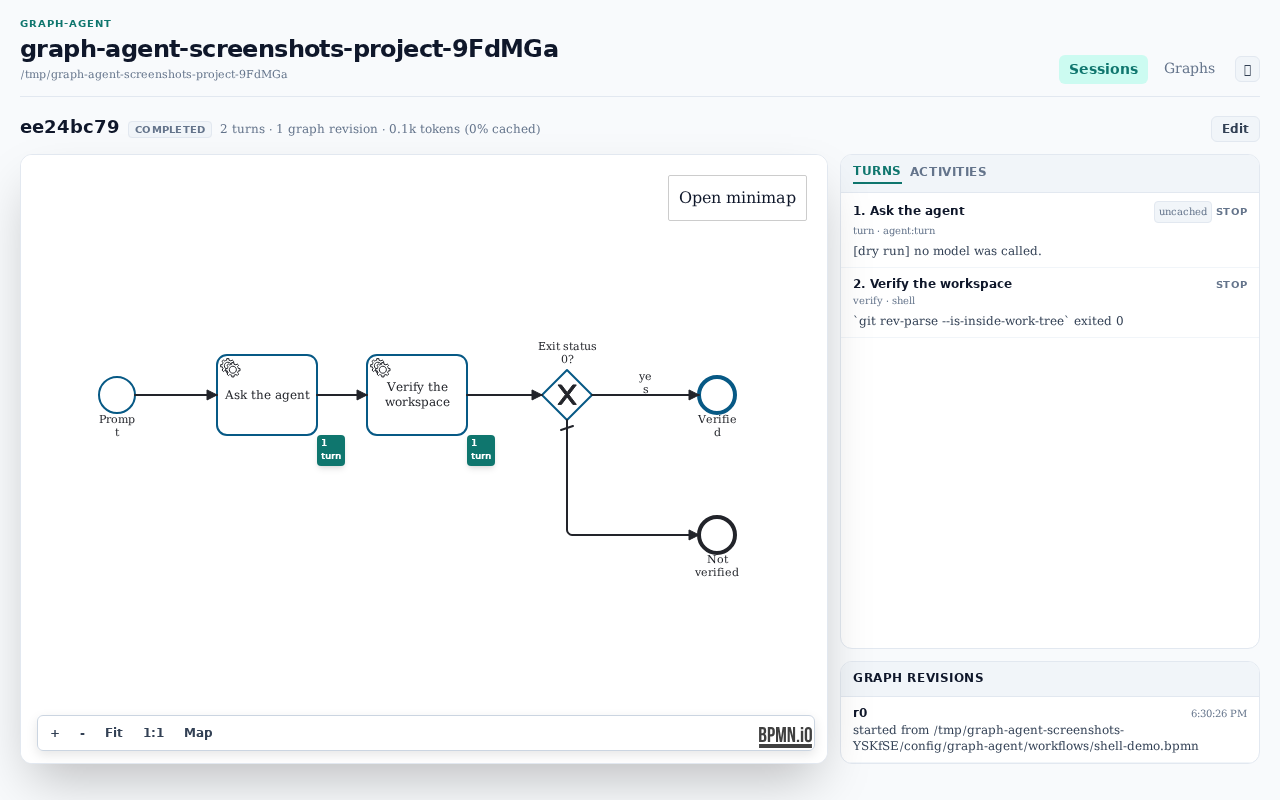
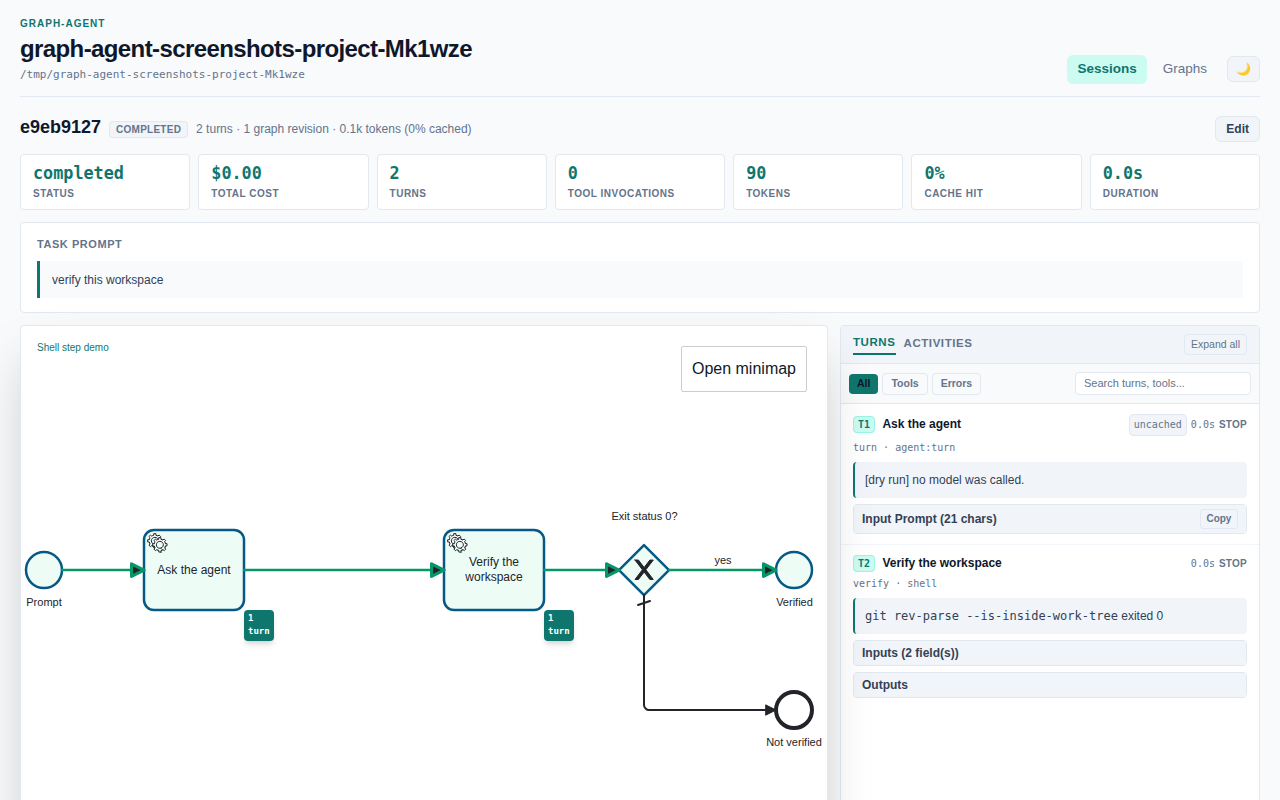
docs: bring the docs back in step with the code
Seven rounds of fixes have landed since the docs were last touched as a
whole, and several of their claims no longer described what the code does.

- `graph:layout` no longer runs the `bpmn-auto-layout` dependency (dropped in
  f995e68); it runs this project's own engine, and lays out every top-level
  process rather than only the first (#87).
- Conditional boundary events are supported (`SUPPORTED_EVENT_DEFINITIONS`),
  but neither the harness reference nor getting-started listed them.
- Cost accounting was entirely undocumented: `_session`, its fields, that a
  budget is expressible as a boundary-event condition, and that
  `element_templates/cost_limit_boundary_event.json` is that as a template
  (#83). New "Session cost, and stopping on it" section in the harness
  reference, referenced from getting-started and README.
- What a splice may introduce now also covers the id rule (#109) and the
  container/linked-process rules (#86, #94, #100), so the section reads as
  the whole contract rather than the fake-join half of it.
- `report`, `export`, `rm` and `model` had no documentation at all -- report
  and export are substantial features. New "Reading a session afterwards"
  section in getting-started covering ls/rm/show/report/export/model, plus
  the resume model fallback (#88) and strict flag handling (#91, #101).
- The TUI's fifteen slash commands were undocumented apart from `/follow`.
- README's `graph:lint` paragraph listed two of the seven checks it now runs.
[…]

diff --git a/docs/harnesses.md b/docs/harnesses.md
@@ -21,8 +21,8 @@ harness returns: `status`, `summary`, `findings`, `artifacts`, `next_action`).
 | `agent:steer` | Drains steering messages queued from outside the graph and injects them before the next turn. Queued via `--steer` (before a run starts) or `graph-agent steer <session> <text>` (into a run already in flight; issue #48). | out: `injected` (count) |
 | `agent:follow-up` | Drains follow-up messages queued from outside the graph. Queued via `--follow-up` or `graph-agent follow-up <session> <text>` (issue #48). | out: `has_followup` |
 | `agent:prepare-next-turn` | Pi's `prepareNextTurn` seam: decides whether the inner loop should stop. Deliberately does not touch the system prompt or tool list -- both sit in front of every message in the prompt cache, so changing them here discards it on every iteration (see `docs/research/05-pi-loops-and-token-cache.md`). | in: `stop_reason`; out: `should_stop` |
-| `graph:layout` | Runs `bpmn-auto-layout` over a fragment (or the current session graph). Always receives a complete document -- by the time this runs, `graph:lint` has already merged `graph_architect`'s drafted ops into one. | in: `fragment` (optional); out: `fragment` (laid out) |
-| `graph:lint` | `graph_architect` drafts a small ops list (`GraphOp[]`, `src/agent/graph.ts`), not a whole document -- `createProcess`/`appendShape`/`insertShape`/`connect`/`setTaskDefinition`/`setDocumentation`/`attachBoundaryEvent`, each mirroring a real bpmn-js `Modeling` method. This harness merges that list into the current session graph headlessly (`applyGraphOps`), then checks that the result is a valid, additive splice, that every new activity's job type names a registered harness with correctly-wired `zeebe:input`/`zeebe:taskHeaders`/`zeebe:output` bindings, and that every new element's type -- and, for a start/end/boundary event, its event definition -- is one this project's runtime actually supports (`src/js/lib/supported-bpmn-elements.ts`'s `SUPPORTED_ELEMENT_TYPES`/`SUPPORTED_EVENT_DEFINITIONS`: a real parallel fork/join via `bpmn:ParallelGateway`, and a timeout (`bpmn:TimerEventDefinition`) or business-error handler (`bpmn:ErrorEventDefinition`) via `attachBoundaryEvent`, are both supported; most other event types are not) -- before anything applies it ([#40](https://github.com/datakurre/graph-agent/issues/40), [#65](https://github.com/datakurre/graph-agent/issues/65); see AGENTS.md's "bundled graphs" section). On success it republishes the merged document back onto `fragment` for `graph:layout`/`graph:extend` to read. | in: `fragment` (an ops list); out: `added`, `attempt`, `fragment` (the merged document) |
+| `graph:layout` | Lays out a fragment (or the current session graph) with this project's own layout engine (`src/js/lib/bpmn-auto-layout.ts`, which replaced the `bpmn-auto-layout` dependency). Always receives a complete document -- by the time this runs, `graph:lint` has already merged `graph_architect`'s drafted ops into one -- and lays out *every* top-level `bpmn:Process` in it, one `bpmndi:BPMNPlane` each, so a session graph keeps the diagrams of the processes `linkGraph` inlined instead of losing all but the first ([#87](https://github.com/datakurre/graph-agent/issues/87)). `ensureLabelDi` runs with it, so the external labels a gateway or event needs are placed too. | in: `fragment` (optional); out: `fragment` (laid out) |
+| `graph:lint` | `graph_architect` drafts a small ops list (`GraphOp[]`, `src/agent/graph.ts`), not a whole document -- `createProcess`/`appendShape`/`insertShape`/`connect`/`setTaskDefinition`/`setDocumentation`/`attachBoundaryEvent`, each mirroring a real bpmn-js `Modeling` method. This harness merges that list into the current session graph headlessly (`applyGraphOps`), then checks that the result is a valid, additive splice, that every new activity's job type names a registered harness with correctly-wired `zeebe:input`/`zeebe:taskHeaders`/`zeebe:output` bindings, and that every new element's type -- and, for a start/end/boundary event, its event definition -- is one this project's runtime actually supports (`src/js/lib/supported-bpmn-elements.ts`'s `SUPPORTED_ELEMENT_TYPES`/`SUPPORTED_EVENT_DEFINITIONS`: a real parallel fork/join via `bpmn:ParallelGateway`, and a timeout (`bpmn:TimerEventDefinition`), a business-error handler (`bpmn:ErrorEventDefinition`) and a cost/condition guard (`bpmn:ConditionalEventDefinition`, see [Session cost, and stopping on it](#session-cost-and-stopping-on-it)) via `attachBoundaryEvent`, are all supported; most other event types are not) -- before anything applies it ([#40](https://github.com/datakurre/graph-agent/issues/40), [#65](https://github.com/datakurre/graph-agent/issues/65); see AGENTS.md's "bundled graphs" section). On success it republishes the merged document back onto `fragment` for `graph:layout`/`graph:extend` to read. | in: `fragment` (an ops list); out: `added`, `attempt`, `fragment` (the merged document) |
 | `graph:extend` | The self-mutation primitive: replaces the session graph with the (already merged, already laid out) document `fragment` now holds. Runs the same additive/job-type/element-type checks `graph:lint` does (`checkSplice`) independently, rather than trusting that something upstream already checked -- stricter than a studio edit's `checkMigration` (see below), which only protects elements the token has actually reached. Stable ids only -- `bpmn-engine` replays recovered child state by element id, so a fragment that renames or removes a live element cannot be recovered. Same reason `checkSplice` also confines a splice to the session's own (executable) process: recovery cannot replay a `callActivity`'s linked process once its definition has changed underneath it, so a target inside one is rejected -- `applyGraphOps` attaches into whichever process the target (`after`/`into`/`from`/`attachedTo`) already lives in, and `checkSplice` rejects the result if that is a linked one ([#86](https://github.com/datakurre/graph-agent/issues/86), [#94](https://github.com/datakurre/graph-agent/issues/94)). In practice this means a graph whose own process is a thin `callActivity` wrapper -- `session-default` around `pi-default-loop`, say -- can only gain or lose steps around what it calls, not edit inside it; a graph whose own process carries the interesting structure directly (`session-craft`'s) has more to work with. The running engine is stopped and resumed against the new graph immediately after (bounded to 5 re-entries per run), so an element the splice adds gets a chance to run in the same `run`/`resume` invocation rather than only the next one ([#45](https://github.com/datakurre/graph-agent/issues/45)). | in: `fragment` (a complete document); out: `added` |
 | `shell` | A deterministic step: runs a command and reports its exit status. No model call. | headers: `command` (required), `fail_on_error` (default `true`); out: `exit_code`, `stdout`, `stderr` |
 
@@ -51,6 +51,52 @@ recipes and worked examples are in `AGENT_ROLES.graph_architect`,
 name the flow it auto-creates, so a later op in the same batch can target it
 without guessing a generated id -- needed for the second gateway a real
 fork/join's join side requires.
+
+Every id a splice introduces -- an element's `id`, `insertShape`'s `flowId`,
+`connect`'s optional flow id, `createProcess`'s process id -- must be a valid
+XML id (a letter or `_` first, then letters, digits, `_`, `.` or `-`). BPMN
+types every id as `xsd:ID`, and an id that is not one serialized happily
+while leaving the token parked on the offending node forever, so `applyGraphOps`
+rejects the op that introduces it, naming the id
+([#109](https://github.com/datakurre/graph-agent/issues/109)).
+
+A splice also cannot reach into a process `linkGraph` inlined via
+`calledElement`, and no sequence flow it creates may cross a `bpmn:Process`
+or `bpmn:SubProcess` boundary -- see `graph:extend` above and
+[#86](https://github.com/datakurre/graph-agent/issues/86)/[#94](https://github.com/datakurre/graph-agent/issues/94)/[#100](https://github.com/datakurre/graph-agent/issues/100).
+
+### Session cost, and stopping on it
+
+Every `agent:turn` reports what it cost. The engine accumulates that across
+the whole run and publishes it as a FEEL variable named `_session`, readable
+from any gateway condition or event condition in the graph:
+
+| Field | Meaning |
+|---|---|
+| `total_cost` | Cumulative cost in USD, as the provider reported it |
+| `turn_count` | Model turns taken so far |
+| `total_tokens` | Tokens across every turn |
+| `input_tokens` / `output_tokens` | The same, split |
+| `cache_read_tokens` / `cache_write_tokens` | Prompt-cache reads and writes |
+
+Because it is an ordinary FEEL variable, a budget is just a condition:
+
+```xml
+<bpmn:boundaryEvent id="cost_limit" attachedToRef="the_expensive_bit" cancelActivity="true">
+  <bpmn:conditionalEventDefinition>
+    <bpmn:condition xsi:type="bpmn:tFormalExpression">=_session.total_cost &gt;= 0.50</bpmn:condition>
+  </bpmn:conditionalEventDefinition>
+</bpmn:boundaryEvent>
+```
+
+`element_templates/cost_limit_boundary_event.json` is that, as a template you
+can drop on any activity from the studio's properties panel. The condition is
+re-evaluated as the run advances, so a limit crossed *during* the activity
+interrupts it, not only one that was already breached when it started
+([#83](https://github.com/datakurre/graph-agent/issues/83)).
+
+The same numbers are what `graph-agent ls`, `show` and `report` print per
+session, and what the studio's session view shows.
 
 ### Editing a running session's graph
 

diff --git a/AGENTS.md b/AGENTS.md
@@ -152,7 +152,7 @@ run hangs rather than failing, which reads like a deadlock in the engine.
 
 ### The bundled graphs
 
-All five run. `session-default` (the default `run` uses when `--graph` is
+All six run. `session-default` (the default `run` uses when `--graph` is
 omitted) is a callActivity into `pi-default-loop`, so OOTB behaviour matches
 plain Pi ([#47](https://github.com/datakurre/graph-agent/issues/47)) --
 `graph-agent run --dry-run` with no `--graph` prints `graph
@@ -160,43 +160,66 @@ session-default` but otherwise the same transcript as running
 `pi-default-loop` directly. `pi-default-loop` and `shell-demo` drive tool
 calls, parallel ones included. `craft-graph` drafts a small ops list
 (`GraphOp[]`, not a whole document) and splices the elements it describes into
-the live session, and `session-skeleton` calls it after a `resume --answer`
-gate. The whole self-extension path is verified end to end against real
-Haiku: draft -> lint (merges the ops into a real document) -> layout ->
-approval gate -> `graph:extend spliced in 2 element(s)`, with `show` reporting
-two graph revisions. #21, #22, #30, #31, #34, #36 and #37 are all closed and
-re-verified on a clean clone.
+the live session, `session-skeleton` calls it after a `resume --answer`
+gate, and `session-craft` goes straight from a prompt into `craft-graph` and
+runs whatever it builds in the same invocation. The whole self-extension path
+is verified end to end against real Haiku: draft -> lint (merges the ops into
+a real document) -> layout -> approval gate -> `graph:extend spliced in 2
+element(s)`, with `show` reporting two graph revisions. #21, #22, #30, #31,
+#34, #36 and #37 are all closed and re-verified on a clean clone.
 
-**#40 is fixed: a splice is checked against the harness registry.**
-`checkSplice` takes a `knownJobTypes` set and rejects a new service task whose
-`zeebe:taskDefinition type` names no harness; `graph:lint` passes it the live
-registry (`new Set(Object.keys(registry))`), and the drafting model is given
-the same vocabulary up front (`jobTypesBlock`). Haiku used to write
-`type="shell:exec"` (the registry has `shell`) and get away with it -- that
-splice is now rejected and feeds back into the redraft loop instead of
-shipping silently.
+**What `graph:lint` rejects, and why each rule is there.** `checkSplice`
+(`graph.ts`) is the whole contract behind "an approved splice is wired
+correctly or it is rejected with a redraftable reason". Every rule below was
+added because a real drafted fragment got through without it:
 
-**#65 is fixed: a real type wired wrong is also rejected.** `checkSplice`
-now also validates a new activity's `zeebe:input`/`zeebe:taskHeaders`/
-`zeebe:output` bindings against `HARNESS_IO` (`harnessIOContract()` in
-`harnesses.ts`, threaded through as an optional parameter so `graph.ts`
-itself never depends on the harness registry). #40's own repro -- `command`
-passed through `zeebe:ioMapping` when the `shell` harness reads
-`zeebe:taskHeaders`, and `exitCode` read back instead of `exit_code` -- is
-rejected outright now, naming the wrong spelling so the redraft loop's
-`lint_feedback` has something concrete to fix. A `graph:lint` pass is now
-evidence a fragment is wired correctly, not just that its job type is real --
-what review at the approval gate is still for is whether the splice does the
-right thing, not whether it is plumbed correctly.
+- **Additive only.** A removed or renamed element cannot be recovered --
+  `bpmn-engine` replays child state by element id.
+- **A registered job type** (#40). Haiku used to write `type="shell:exec"`
+  (the registry has `shell`) and get away with it; `checkSplice` takes a
+  `knownJobTypes` set, and the drafting model is given the same vocabulary up
+  front (`jobTypesBlock`).
+- **I/O bindings that match the harness** (#65). #40's own repro -- `command`
+  passed through `zeebe:ioMapping` when the `shell` harness reads
+  `zeebe:taskHeaders`, and `exitCode` read back instead of `exit_code` -- is
+  rejected by the exact wrong spelling used, checked against `HARNESS_IO`
+  (`harnessIOContract()` in `harnesses.ts`, threaded through as an optional
+  parameter so `graph.ts` never depends on the harness registry).
+- **A supported element type and event definition**
+  (`supported-bpmn-elements.ts`) -- the same allowlist the editor's palette
+  is restricted to.
+- **The session's own process** (#86, #94). Recovery cannot replay a
+  `callActivity`'s linked process once its definition changed underneath it,
+  so a splice targeting one leaves the session permanently stuck.
+  `applyGraphOps` attaches into whichever container the target already lives
+  in, and the splice is rejected if that is a linked process.
+- **No flow crossing a container** (#100). The same malformation one level
+  down, at a `bpmn:SubProcess` boundary -- `pi-default-loop`'s `tool_batch`
+  is a real one a splice can target.
+- **A usable XML id** (#109) for every id the fragment introduces -- element
+  ids, `insertShape`'s `flowId`, `connect`'s optional id, `createProcess`'s
+  process id. A space serialized fine and then parked the token forever.
+- **This project's own bpmnlint ruleset** (#104), minus the rules that need a
+  laid-out document (`SEMANTIC_CONFIG` in `bpmn-lint.ts`). `fake-join` is the
+  sharp one: bpmn-elements re-triggers a plain activity with two incoming
+  flows once per token instead of joining, silently double-running a billed
+  `agent:turn`.
+
+Because the vocabulary is additive-only, a merge or fork/join can only be
+built by `insertShape`-ing the gateway into the flow that already reaches the
+shared target -- `appendShape`-ing one and connecting existing sources into it
+cannot work (#107). The recipes and worked examples live in
+`AGENT_ROLES.graph_architect`; keep them in step with any change to the ops.
 
 ### Re-verifying a closed issue
 
 Two traps have each produced a false "still broken" here, so check both before
 reopening anything:
 
-- **A stale graph library** (#35). `init` never overwrites, so your
-  `$XDG_CONFIG_HOME/graph-agent/workflows` copy can predate the fix. Diff it
-  against `workflows/` first. This is why #22 looked open when it was not, and
+- **A stale graph library** (#35). Plain `init` auto-upgrades a library copy
+  the self-hash proves you never edited, but leaves a copy you *have* edited
+  alone and only reports it as stale -- so an edited copy can predate the
+  fix. Diff it against `workflows/` first, or `init --refresh`. This is why #22 looked open when it was not, and
   why the default graph once ran without the fix that stopped it billing 110
   turns.
 - **Testing a path the CLI cannot take.** A regression test that drives

diff --git a/docs/getting-started.md b/docs/getting-started.md
@@ -344,6 +344,23 @@ when one is parked; otherwise it queues -- bare text as a steering message,
 would from another terminal, since it goes through the same
 `SessionStore.queueInbox`.
 
+Slash commands cover what you would otherwise leave the session for
+(`/help` lists them, and tab completes them):
+
+| Command | What it does |
+|---|---|
+| `/model [provider/model]` | show the active model, or switch it -- with no argument you pick from the models you have credentials for |
+| `/graph [name]` | the workflow outline: the running session's, or a named library graph's |
+| `/graphs` | list the library |
+| `/rail` | toggle the side rail showing the live sequence-flow tree |
+| `/promote <name> [--force]` | write the session's graph into the library, without leaving the session |
+| `/diff [args]` | the workspace's uncommitted `git diff` |
+| `/compact` | summarise older messages to reclaim context |
+| `/sessions` | recent sessions |
+| `/studio` | launch (or print the URL of) the studio for this project |
+| `/steer <text>`, `/follow <text>` | queue a steering or follow-up message explicitly |
+| `/clear`, `/help`, `/exit` | clear the transcript, show help and keybindings, quit |
+
 `graph-agent run` is unchanged: non-interactive, scriptable, what CI uses.
 The TUI is a new command, not a flag on `run`.
 
@@ -378,6 +395,65 @@ what ran, not the original messages) -- and whatever the session is still
 parked on gets prompted for immediately, the same `onWait` seam a fresh run
 uses, since a resumed engine re-announces its own postponed activity as soon
 as it resumes.
+
+## Reading a session afterwards
+
+A finished (or parked) session is still on disk under `$XDG_STATE_HOME`, and
+four commands read it back.
+
+```
+$ graph-agent ls
+e8750873  completed    2 turns  $0.0013  work
+```
+
+`ls` lists this project's sessions, newest first, with the token and cost
+totals the engine accumulated (`--all` for every project on the machine).
+`graph-agent rm <session>` deletes one.
+
+```
+$ graph-agent show e8750873
+e8750873  completed  2 turns · tokens 1.3k (0% cached) · cost $0.0013
+project: /home/you/work
+graph revisions: 1
+
+  1  llm_turn  agent:turn  stop [in:1268 out:6 cache:0] ($0.0013)
+```
+
+`show` prints the turns and the current graph revision -- the quickest way to
+see what a run actually did and what it cost.
+
+```
+$ graph-agent report e8750873 --format html --out report.html
+wrote report to report.html
+```
+
+`report` renders the whole session: the prompt, every turn with its inputs,
+outputs and tool calls, the graph revisions, and a diagram per process with
+the activities that ran shaded by how much of the session's cost they
+accounted for. `--format` takes `markdown` (the default, written to stdout),
+`html` or `json`; `--out <file>` writes to a file instead; `-v`/`--verbose`
+includes full prompts, thinking and tool payloads. The HTML report embeds its
+diagrams, so it is one self-contained file you can send to someone.
+
+```
+$ graph-agent export e8750873 --out session.svg
+exported diagram to session.svg
+```
+
+`export` writes just the diagram -- of a session, or of a `.bpmn` file you
+name instead. `--format svg` (default) or `png`, `--background <color>`,
+`--scale <n>`.
+
+`graph-agent model` lists the models you have credentials for, and
+`graph-agent model <provider/model>` pins a default into `config.toml` so you
+need not repeat `--model`. A `resume` with no `--model` reuses whatever the
+session itself ran on ([#88](https://github.com/datakurre/graph-agent/issues/88)).
+
+Every command takes `--help`, and an unknown flag is an error rather than
+being silently ignored -- `--out` mistyped as `--output` gets you a "did you
+mean" rather than a surprise
+([#91](https://github.com/datakurre/graph-agent/issues/91),
+[#101](https://github.com/datakurre/graph-agent/issues/101)).
 
 ## The bundled graphs
 
@@ -563,9 +639,13 @@ same allowlist the editor's own palette is restricted to
 (`src/js/lib/supported-bpmn-elements.ts`), so a drafted
 `{"op":"appendShape","type":"bpmn:InclusiveGateway",...}` is rejected the same
 way a human trying to drop one on the canvas is blocked from creating it in
-the first place. A real parallel fork/join (`bpmn:ParallelGateway`) and a
-timeout or business-error handler on an activity (`attachBoundaryEvent` with
-`bpmn:TimerEventDefinition`/`bpmn:ErrorEventDefinition`) are both supported;
+the first place. A real parallel fork/join (`bpmn:ParallelGateway`) is
+supported, as are three kinds of boundary event on an activity
+(`attachBoundaryEvent`): a timeout (`bpmn:TimerEventDefinition`), a
+business-error handler (`bpmn:ErrorEventDefinition`), and a cost or condition
+guard (`bpmn:ConditionalEventDefinition`, which reads the running totals the
+engine publishes as `_session` -- see [the harness
+reference](harnesses.html#session-cost-and-stopping-on-it));
 most other event types are not. The drafting model is also given the real
 job-type vocabulary up front, so a run like the one above no longer invents a
 plausible-looking type such as `shell:exec` -- lint rejects it and the

diff --git a/README.md b/README.md
@@ -94,10 +94,17 @@ backs it up as `.bak` first) to pick up a fix upstream
 where`'s graphs directory, before concluding a graph is still broken.
 
 `graph:lint` checks that a fragment is valid and additive, that every new
-activity's `zeebe:taskDefinition type` names a real harness, *and* that its
+activity's `zeebe:taskDefinition type` names a real harness, that its
 `zeebe:input`/`zeebe:taskHeaders`/`zeebe:output` bindings match what that
 harness actually reads and publishes
-([#65](https://github.com/datakurre/graph-agent/issues/65)) -- an approved
+([#65](https://github.com/datakurre/graph-agent/issues/65)), that every id it
+introduces is a usable XML id
+([#109](https://github.com/datakurre/graph-agent/issues/109)), that no flow it
+adds crosses a process or subprocess boundary
+([#100](https://github.com/datakurre/graph-agent/issues/100)), *and* that the
+result passes this project's own bpmnlint ruleset -- so a splice cannot
+introduce, say, the fake join that would silently double-run a billed turn
+([#104](https://github.com/datakurre/graph-agent/issues/104)). An approved
 splice is wired correctly or it is rejected with a redraftable reason before
 it ever applies. What review at the approval gate is still for: whether the
 splice does the *right thing*, not whether it is plumbed correctly.
@@ -137,6 +144,23 @@ from -- the graph library (shared across projects) on one side, this
 project's sessions on the other, with the Camunda 8 element templates under
 [`element_templates/`](element_templates/) available from the properties
 panel.
+
+## Reports
+
+```
+graph-agent ls                                   # sessions, with tokens and cost
+graph-agent show <session>                       # turns and the current graph revision
+graph-agent report <session> --format html --out report.html
+graph-agent export <session> --out session.svg
+```
+
+Every `agent:turn` reports what it cost, and the engine accumulates that into
+a `_session` FEEL variable the graph itself can read -- which is what makes a
+budget expressible as a boundary event (`element_templates/cost_limit_boundary_event.json`,
+see [the harness reference](docs/harnesses.md#session-cost-and-stopping-on-it)).
+The same totals are what `ls`, `show` and `report` print. The HTML report is
+one self-contained file: prompts, turns, tool calls, graph revisions, and a
+diagram per process shaded by where the session's cost went.
 
 ## Development
 

diff --git a/docs/index.md b/docs/index.md
@@ -18,8 +18,9 @@ TypeScript that actually does the work an activity names.
   them.
 - [Getting started](getting-started.html) -- build the project, run the bundled
   Pi demo loop, pair it with a deterministic `shell` step, point it at a real
-  model, drive single-task runs or continuous multi-prompt sessions, and read a
-  run that went wrong.
+  model, drive single-task runs or continuous multi-prompt sessions, read a
+  finished session back with `show`/`report`/`export`, and diagnose a run that
+  went wrong.
 - [Harness reference](harnesses.html) -- every job type a graph can dispatch to,
   and what it expects on the activity.
 
@@ -40,11 +41,11 @@ for](getting-started.html#what-lint-checks-and-what-review-is-still-for)).
 The studio -- `graph-agent ui` -- is a BPMN editor and a session viewer for
 whatever project you point it at.
 
-![The graph library, with the shell-demo workflow visible](screenshots/project.png)
+![The project view: this project's sessions above, the graph library shared across all of them below](screenshots/project.png)
 
-![Editing shell-demo.bpmn: a Pi turn feeding a deterministic shell check](screenshots/graph-shell-demo.png)
+![Editing shell-demo.bpmn: a Pi turn feeding a deterministic shell check, with the palette, live bpmnlint and the properties panel](screenshots/graph-shell-demo.png)
 
-![A completed shell-demo session: one turn, one shell step, both recorded](screenshots/session.png)
+![A completed shell-demo session: cost and token tiles, the diagram with a turn count on each activity that ran, and every turn beside it](screenshots/session.png)
 
 These are not mockups -- `scripts/screenshot-docs.mjs` drives the real CLI and
 a real Chromium against a throwaway workspace to produce them. Run
